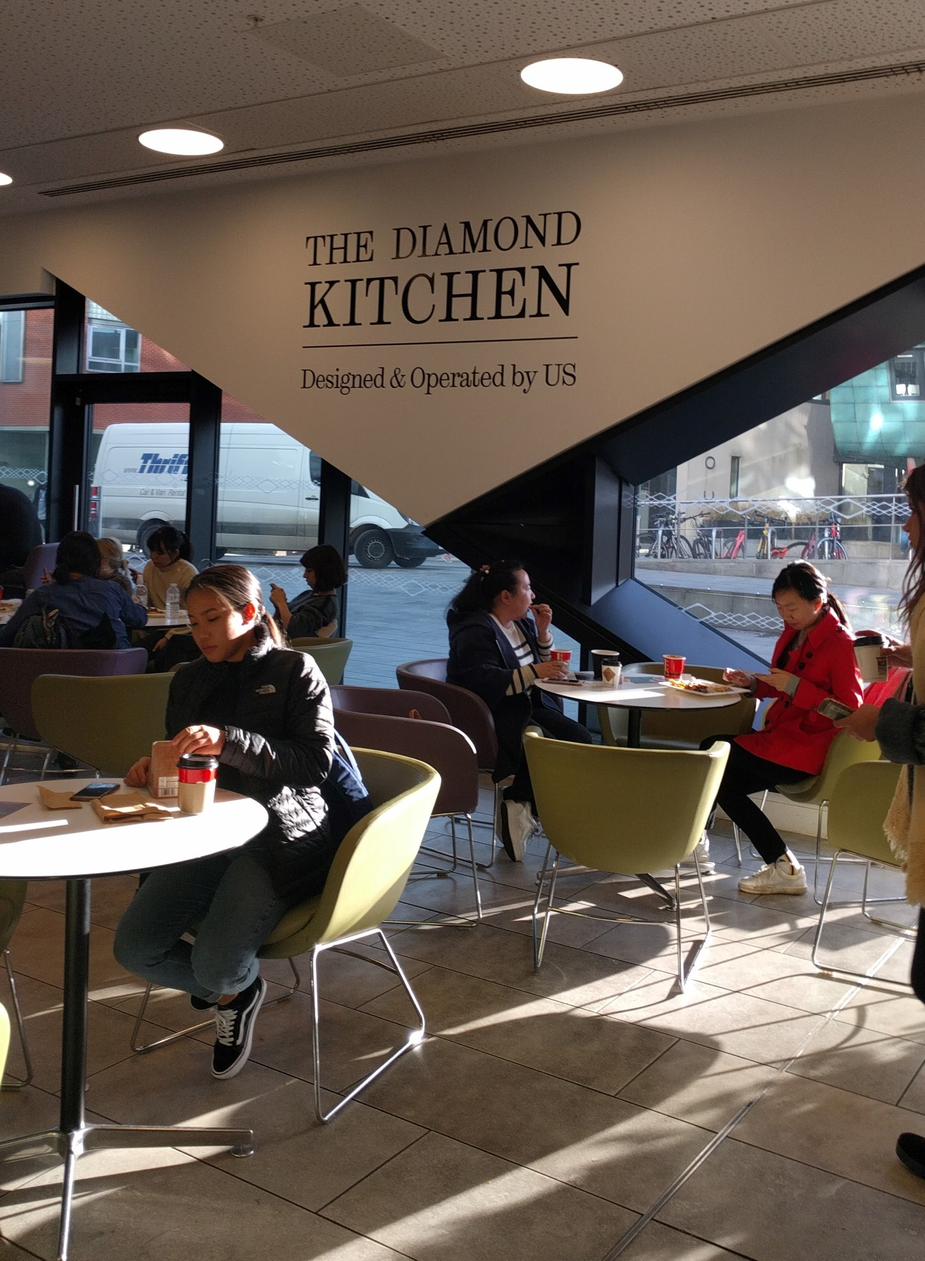
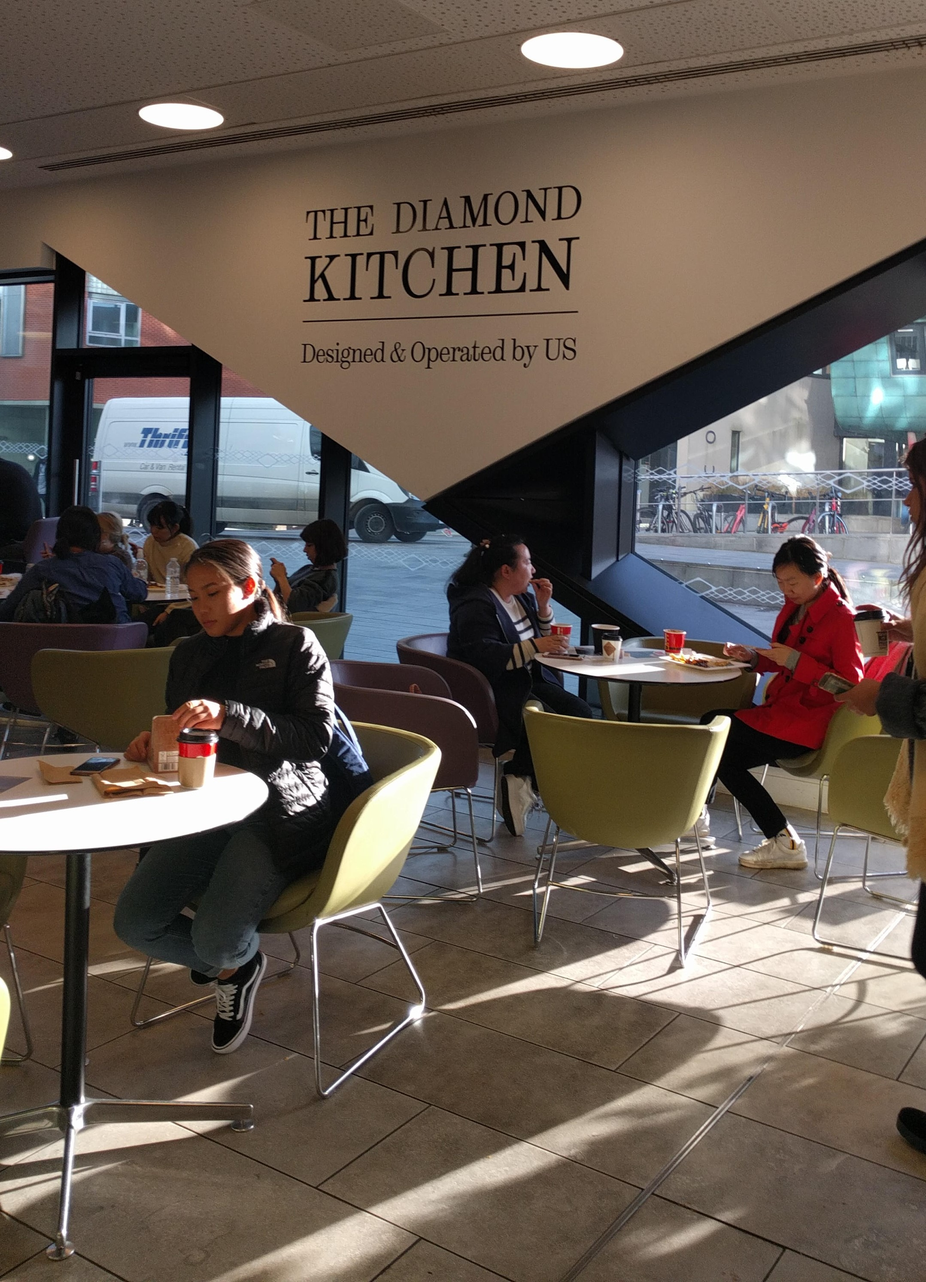
Added compressed images, updated *some* website content

diff --git a/dayinthelife.html b/dayinthelife.html
@@ -26,19 +26,18 @@
 
             <p>In the morning, you might expect to have lecture or two before lunch (on some days). As a Faculty of Engineering Student, you’ll take advantage of some of the newest lecture theatres owned by the University – situated below ground level in the Diamond. There is a total of 7 larger-sized lecture theatres underground, and there are smaller lecture theatres located behind the turnstiles on the 1st floor.</p>
 
-            <img src="img/lecturetheatre.jpg" alt="A picture of a lecture theatre in The Diamond">
-
-
+            <img src="img/DiamondLT01.jpg" alt="A picture of a lecture theatre in The Diamond" class="floatimageright">
 
             <p>At lunch, you’ll want to grab a bite to eat – you could try the Diamond Café/Kitchen on the ground floor to the left of the main entrance. <a href="diamondcafe.html">You can see our web page dedicated to Diamond Café/Kitchen here for everything you might need to know about the Café.</a></p>
-            
-            <a href="diamondcafe.html"><img src="img/diamondkitchen.jpg" alt="A pciture of the Diamond Café/Kitchen" class="floatimageright"></a>
+
+            <a href="diamondcafe.html"><img src="img/DiamondKitchen.jpg" alt="A pciture of the Diamond Café/Kitchen" class="floatimageright"></a>
 
 
             <p>After lunch, you may need somewhere to work individually before your next lecture:</p>
             <ul>
                 <li>For quick tasks like printing or emailing, the MindSphere Lounge is perfect. There is space to work if you need it, and there are a few computers and printers for quick use. You can also borrow and return library books here.</li>
-
+                
+                <img src="img/DiamondMindSphereLounge.jpg" alt="A picture of the MindSphere Lounge" class="centeredfigurebig">
 
                 <li>For reasonably short periods of time, you’ll likely be using a general study space. There is one after the turnstiles on the 1st floor, and smaller spaces on the 3rd and 4th floors are available if needed.</li>
 
@@ -53,7 +52,7 @@
             <p>For some of your modules you may be working as a group, and so after your lectures is a perfect time to schedule group meetings. The group rooms on the 3rd and 4th floor are bookable online up to 2 days in advance online. The rooms vary in size, however they all have a flat-screen television and boardroom-style layout. If you don’t have a laptop to bring in to the room to connect to the television then worry not, as you can use the automated station for borrowing a laptop for up to 24 hours, for use within the Diamond. These laptops are connected to the University’s system so you can benefit from using any of the software available on regular University machines.</p>
 
             <figure>
-                <img src="img/diamondbynight.jpg" alt="The Diamond by Night" class="centeredfigure">
+                <img src="img/TheDiamondByNight.jpg" alt="The Diamond by Night" class="centeredfiguresmall">
                 <figcaption class="centeredfigcaption">It's time to head home...</figcaption>
             </figure>
 

diff --git a/diamondcafe.html b/diamondcafe.html
@@ -23,20 +23,20 @@
         </nav>
         <section>
             <h1>The Diamond Café/Kitchen</h1>
-            <img src="img/diamondkitchen.jpg" alt="The Diamond Café/Kitchen" class="floatimageright">
+            <img src="img/DiamondKitchenFreshFood.jpg" alt="The Diamond Café/Kitchen" class="floatimageright">
             <p>The Diamond Café is a conveniently located area to get food quickly. Located just to the left of the main reception on the ground floor, there are a good number of spaces to sit and eat with a few friends and places to eat individually. </p>
 
-            <p>There’s a small island in the centre of the Café where you can order from a range of hot drinks, such as a hot chocolate or a mocha. There’s even a range of festive drinks at Christmas time. The kitchen is located opposite the island, where you can order from a small range of freshly prepared meals, every day.</p>
+            <p>There’s a small island in the centre of the Café where you can order from a range of hot drinks, such as a hot chocolate or a mocha. There’s even a range of festive drinks at Christmas time.</p>
 
-            <img src="img/cafeisland.jpg" alt="A picture of the island at The Diamond Café/Kitchen">
+            <img src="img/DiamondCafeIsland.jpg" alt="A picture of the island at The Diamond Café/Kitchen" class="centeredfiguresmall">
 
-            <p>There is a wide variety in the meals offered each day, from Jacket Potatoes to Sri Lankan Chicken Curry. We’d personally recommend the Diamond Wrap, which will always go down a treat.</p>
+            <p>The kitchen is located opposite the island, where you can order from a small range of freshly prepared meals, every day. There is a wide variety in the meals offered each day, from Jacket Potatoes to Sri Lankan Chicken Curry. We’d personally recommend the Diamond Wrap, which will always go down a treat.</p>
 
-            <img src="img/food.jpg" alt="A picture of the hot food on offer at The Diamond Café/Kitchen">
+            <img src="img/DiamondKitchenHotFood.jpg" alt="A picture of the hot food on offer at The Diamond Café/Kitchen" class="centeredfigurebig">
 
-            <p>If you don’t fancy any of the meals on offer, there’s also a very large variety of sandwiches, drinks and snacks on offer too. All in typical meal-deal fashion.</p>
-
-            <img src="img/mealdealrack.jpg" alt="A picture of the meal deal fridges at The Diamond Café/Kitchen">
+            <p>If you don’t fancy any of the meals on offer, there’s also a very large variety of sandwiches, drinks and snacks on offer too. All in typical meal-deal fashion. There are classic sandwiches like a BLT or Chicken Sandwich, and there's some original combinations too. We'd highly recommend taking a few moments to see what's on offer.</p>
+            
+            <img src="img/DiamondCafeMealDealRack.jpg" alt="A picture of the meal deal fridges at The Diamond Café/Kitchen" class="centeredfigurebig">
         </section>
         <footer>
             <p><a href="accessibility.html">Accessibility</a><p>

diff --git a/css/stylesheet.css b/css/stylesheet.css
@@ -5,7 +5,7 @@ body {
 }
 header {
     background-color: rgb(0, 148, 216);
-    padding: 5px 5%;
+    padding: 5px 3%;
 
 }
 header h1 {
@@ -13,13 +13,21 @@ header h1 {
     color: lightgray;
     font-size: 1.25em;
     text-align:left;
-    padding: 2% 3%;
+    padding: 2% 1%;
 }
 h1, p{
     font-family: sans-serif;
 }
+img{
+    border-radius: 5px;
+    box-shadow: 0 3px 6px rgba(0,0,0,0.16), 0 3px 6px rgba(0,0,0,0.23);
+    transition: 0.5s;
+}
+img:hover {
+    box-shadow: 0 6px 12px rgba(0,0,0,0.25), 0 10px 10px rgba(0,0,0,0.22);
+}
 nav {
-    padding: 5px 5%;
+    padding: 5px 2%;
     color: gainsboro;
     background-color: rgb(100, 181, 246);
 
@@ -27,7 +35,7 @@ nav {
 nav ul{
     display: inline;
     list-style: none;
-    padding: 3%;
+    padding: 2%;
     margin-right: 0;
 }
 ul{
@@ -86,12 +94,19 @@ card:hover {
 section{
     margin: 10px 9%;
 }
-.centeredfigure{
+.centeredfigurebig{
     font-family: sans-serif;
     text-align: center;
     display: block;
-    margin: auto;
-    width: 40vh;
+    margin: 2% auto;
+    width: 40vw;
+}
+.centeredfiguresmall{
+    font-family: sans-serif;
+    text-align: center;
+    display: block;
+    margin: 2% auto;
+    width: 20vw;
 }
 .centeredfigcaption{
     text-align: center;
@@ -137,5 +152,11 @@ section{
         margin: 3% 3%;
         float: right;
         width: 15vw;
+    }
+    .centeredfigurebig{
+        width: 35vw;
+    }
+    .centeredfiguresmall{
+        width: 20vw;
     }
 }
